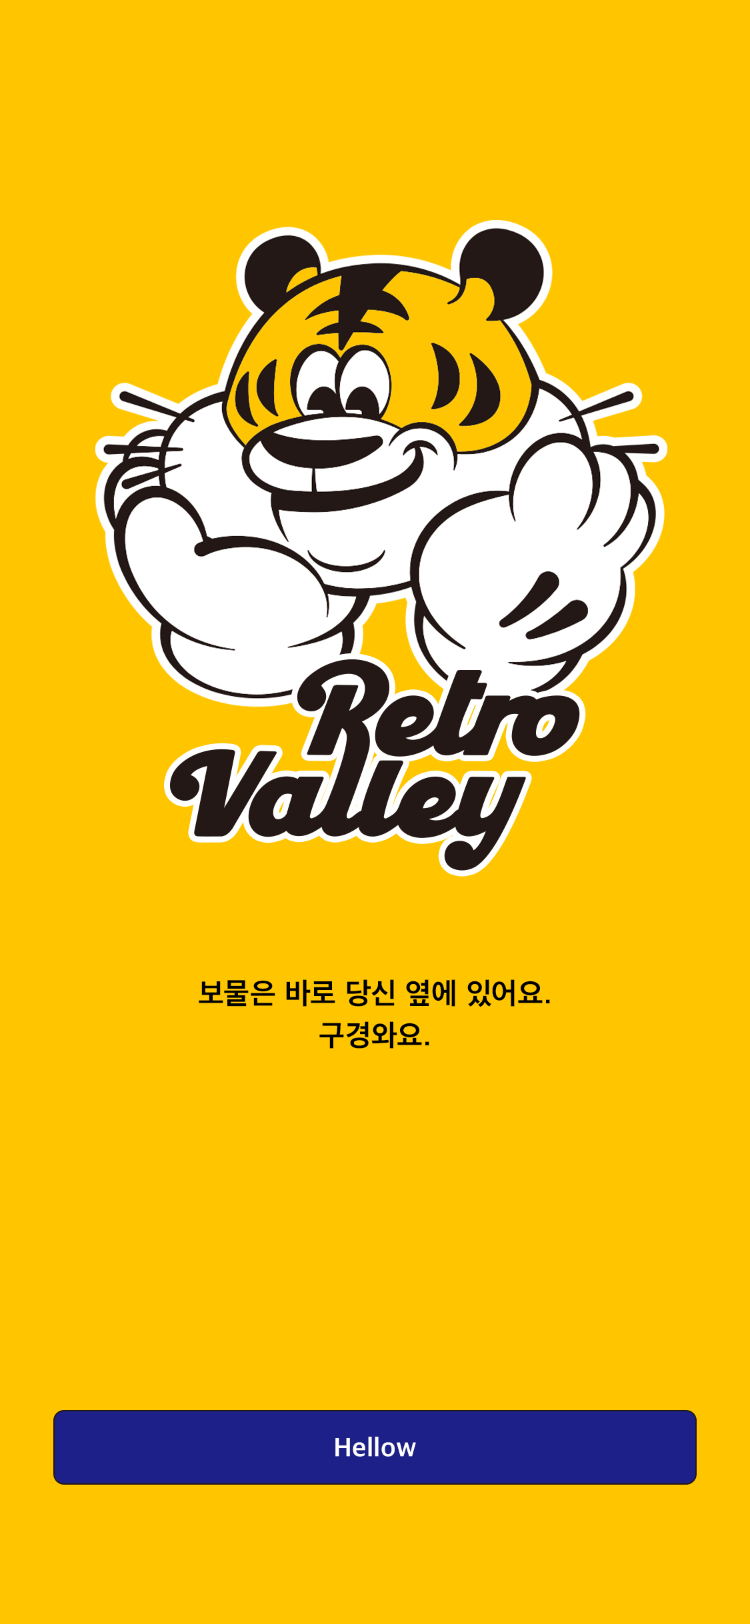
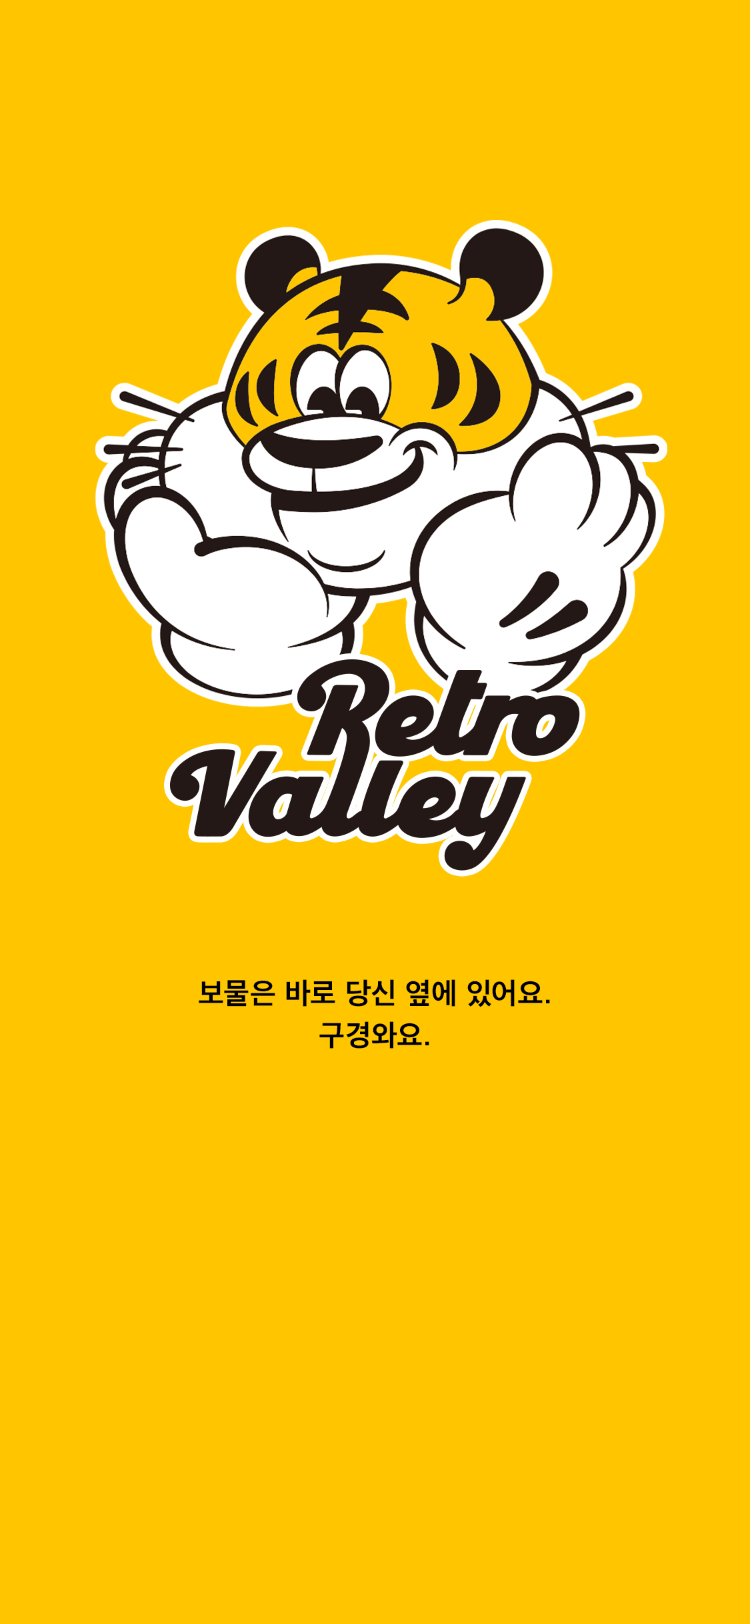
changed the index pages to be on /index

Changed region(s): [[0.0613, 0.8621, 0.9507, 0.9236]]

diff --git a/src/components/Banner_1.js b/src/components/Banner_1.js
@@ -1,16 +1,17 @@
 import React from "react";
 import styled from "styled-components";
-import banner_6 from "../img/banner-6.png";
 import banner_5 from "../img/banner-5.png";
 import next_btn from "../img/next-btn.png";
 import line from "../img/line.png";
+import { useNavigate } from "react-router-dom";
 const Banner_1 = () => {
+  const navigate = useNavigate();
   return (
     <Container>
       <img src={banner_5} alt="banner" />
-      <div className="sub-content">
-        {/* <button className="next-btn">Hellow</button> */}
-      </div>
+      <button onClick={() => navigate("/start")} className="next-btn">
+        Hellow
+      </button>
     </Container>
   );
 };
@@ -20,30 +21,26 @@ export default Banner_1;
 const Container = styled.section`
   display: flex;
   position: relative;
-
+  align-items: center;
+  justify-content: center;
   img {
     object-fit: cover;
     width: 100%;
   }
 
-  .sub-content {
-    display: flex;
-    align-items: center;
-    justify-content: center;
-    gap: 15px;
+  .next-btn {
     position: absolute;
-    bottom: 0;
-    width: 100%;
-    margin-bottom: 50px;
-
-    .next-btn {
-    }
-
-    p {
-      font-size: 13px;
-      color: #ffffff;
-    }
+    bottom: 60px;
+    width: 85%;
+    background-color: #1d2089;
+    color: #ffffff;
+    border: none;
+    outline: none;
+    padding: 10px;
+    border-radius: 5px;
+    font-weight: 600;
   }
+
   .line {
     width: 100%;
     height: 10px;

diff --git a/src/components/Banner_2.js b/src/components/Banner_2.js
@@ -1,16 +1,18 @@
 import React from "react";
 import styled from "styled-components";
 import banner_6 from "../img/banner-6.png";
-import banner_5 from "../img/banner-5.png";
+
 import next_btn from "../img/next-btn.png";
 import line from "../img/line.png";
+import { useNavigate } from "react-router-dom";
 const Banner_2 = () => {
+  const navigate = useNavigate();
   return (
     <Container>
       <img src={banner_6} alt="banner" />
-      <div className="sub-content">
-        {/* <button className="next-btn">Hellow</button> */}
-      </div>
+      <button onClick={() => navigate("/login")} className="next-btn">
+        Start
+      </button>
     </Container>
   );
 };
@@ -20,29 +22,25 @@ export default Banner_2;
 const Container = styled.section`
   display: flex;
   position: relative;
+  align-items: center;
+  justify-content: center;
 
   img {
     object-fit: cover;
     width: 100%;
   }
 
-  .sub-content {
-    display: flex;
-    align-items: center;
-    justify-content: center;
-    gap: 15px;
+  .next-btn {
     position: absolute;
-    bottom: 0;
-    width: 100%;
-    margin-bottom: 50px;
-
-    .next-btn {
-    }
-
-    p {
-      font-size: 13px;
-      color: #ffffff;
-    }
+    bottom: 60px;
+    width: 85%;
+    background-color: #ffc600;
+    color: #000000;
+    border: none;
+    outline: none;
+    padding: 10px;
+    border-radius: 5px;
+    font-weight: 500;
   }
   .line {
     width: 100%;

diff --git a/src/App.js b/src/App.js
@@ -7,6 +7,7 @@ import Menu from "./components/Menu";
 import Products from "./components/Products/Products";
 import { router } from "./router";
 import NoMatch from "./components/NoMatch";
+import Banner_1 from "./components/Banner_1";
 
 export default function App() {
   return (
@@ -31,7 +32,7 @@ export default function App() {
       />
       <HashRouter>
         <Routes>
-          <Route path="/" element={<IndexPage />} />
+          <Route path="/" element={<Banner_1 />} />
           <Route exact path="/home" element={<Home />}>
             <Route path="main" element={<Main />} />
             <Route path="menu" element={<Menu />} />
@@ -58,6 +59,7 @@ export default function App() {
             <Route path="products" element={<Products />} />
             <Route path="nomatch" element={<NoMatch />} />
           </Route>
+          <Route path="/index" element={<IndexPage />} />
           {router.map((el, i) => (
             <Route key={i} path={el.path} element={el.element} />
           ))}

diff --git a/src/components/Market/Main.js b/src/components/Market/Main.js
@@ -18,6 +18,7 @@ import movie_figure_icon from "../../img/movie-figure.svg";
 import profile_1 from "../../img/profile_1.png";
 import check_orange from "../../img/checked.svg";
 import AnimatedCarousel from "../Carousel/AnimatedCarousel";
+import { useNavigate } from "react-router-dom";
 
 const images = [banner_7, banner_8, banner_1, banner_2, banner_3];
 
@@ -37,6 +38,7 @@ const categories = [
   "Apple 아이맥 5K",
 ];
 const Main = () => {
+  const navigate = useNavigate();
   const [isTransparent, setIsTransparent] = React.useState(true);
   const [activeIndex, setActiveIndex] = useState(0);
   const [activeCategory, setActiveCategory] = useState(0);
@@ -61,6 +63,7 @@ const Main = () => {
       <div className="header">
         <div className="inner-wrap">
           <MenuTwoToneIcon
+            onClick={() => navigate("/home/category")}
             sx={{ color: !isTransparent ? "000000" : "#65bc7b", fontSize: 35 }}
           />
           <img

diff --git a/src/components/Login.js b/src/components/Login.js
@@ -7,8 +7,10 @@ import google_social from "../img/google-social.png";
 import naver_social from "../img/naver-social.png";
 import kakaotalk_social from "../img/kakaotalk-social.png";
 import apple_social from "../img/apple-social.png";
+import { useNavigate } from "react-router-dom";
 
 const Login = () => {
+  const navigate = useNavigate();
   return (
     <Container>
       <section className="top-bar">
@@ -34,7 +36,7 @@ const Login = () => {
         </div>
       </section>
       <section className="btn-holder">
-        <button>로그인</button>
+        <button onClick={() => navigate("/home/main")}>로그인</button>
         <div className="button-div"></div>
       </section>
       <h2>간편 로그인</h2>

diff --git a/src/components/Category.js b/src/components/Category.js
@@ -19,7 +19,11 @@ const Category = ({ pageName, main, sub }) => {
       </div>
       <section className="sub-content">
         {main.map((el, i) => (
-          <div key={i} className="block">
+          <div
+            onClick={() => navigate("/home/comics")}
+            key={i}
+            className="block"
+          >
             <h3>{el}</h3>
             <ArrowForwardIosTwoToneIcon
               sx={{ fontSize: "13px", opacity: "0.50" }}

diff --git a/src/components/Home.js b/src/components/Home.js
@@ -10,7 +10,7 @@ import BottomNavigationAction from "@mui/material/BottomNavigationAction";
 import styled from "styled-components";
 import { Outlet, useNavigate } from "react-router-dom";
 const Home = () => {
-  const [value, setValue] = useState(0);
+  const [value, setValue] = useState("");
   const navigate = useNavigate();
 
   function handleChangeEvent(_value) {

diff --git a/src/router.js b/src/router.js
@@ -39,13 +39,8 @@ export const router = [
     element: <ProductUpload />,
   },
   {
-    route: "Banners",
-    path: "/banner_1",
-    element: <Banner_1 />,
-  },
-  {
-    route: "Banners",
-    path: "/banner_2",
+    route: "Banner",
+    path: "/start",
     element: <Banner_2 />,
   },
 ];
